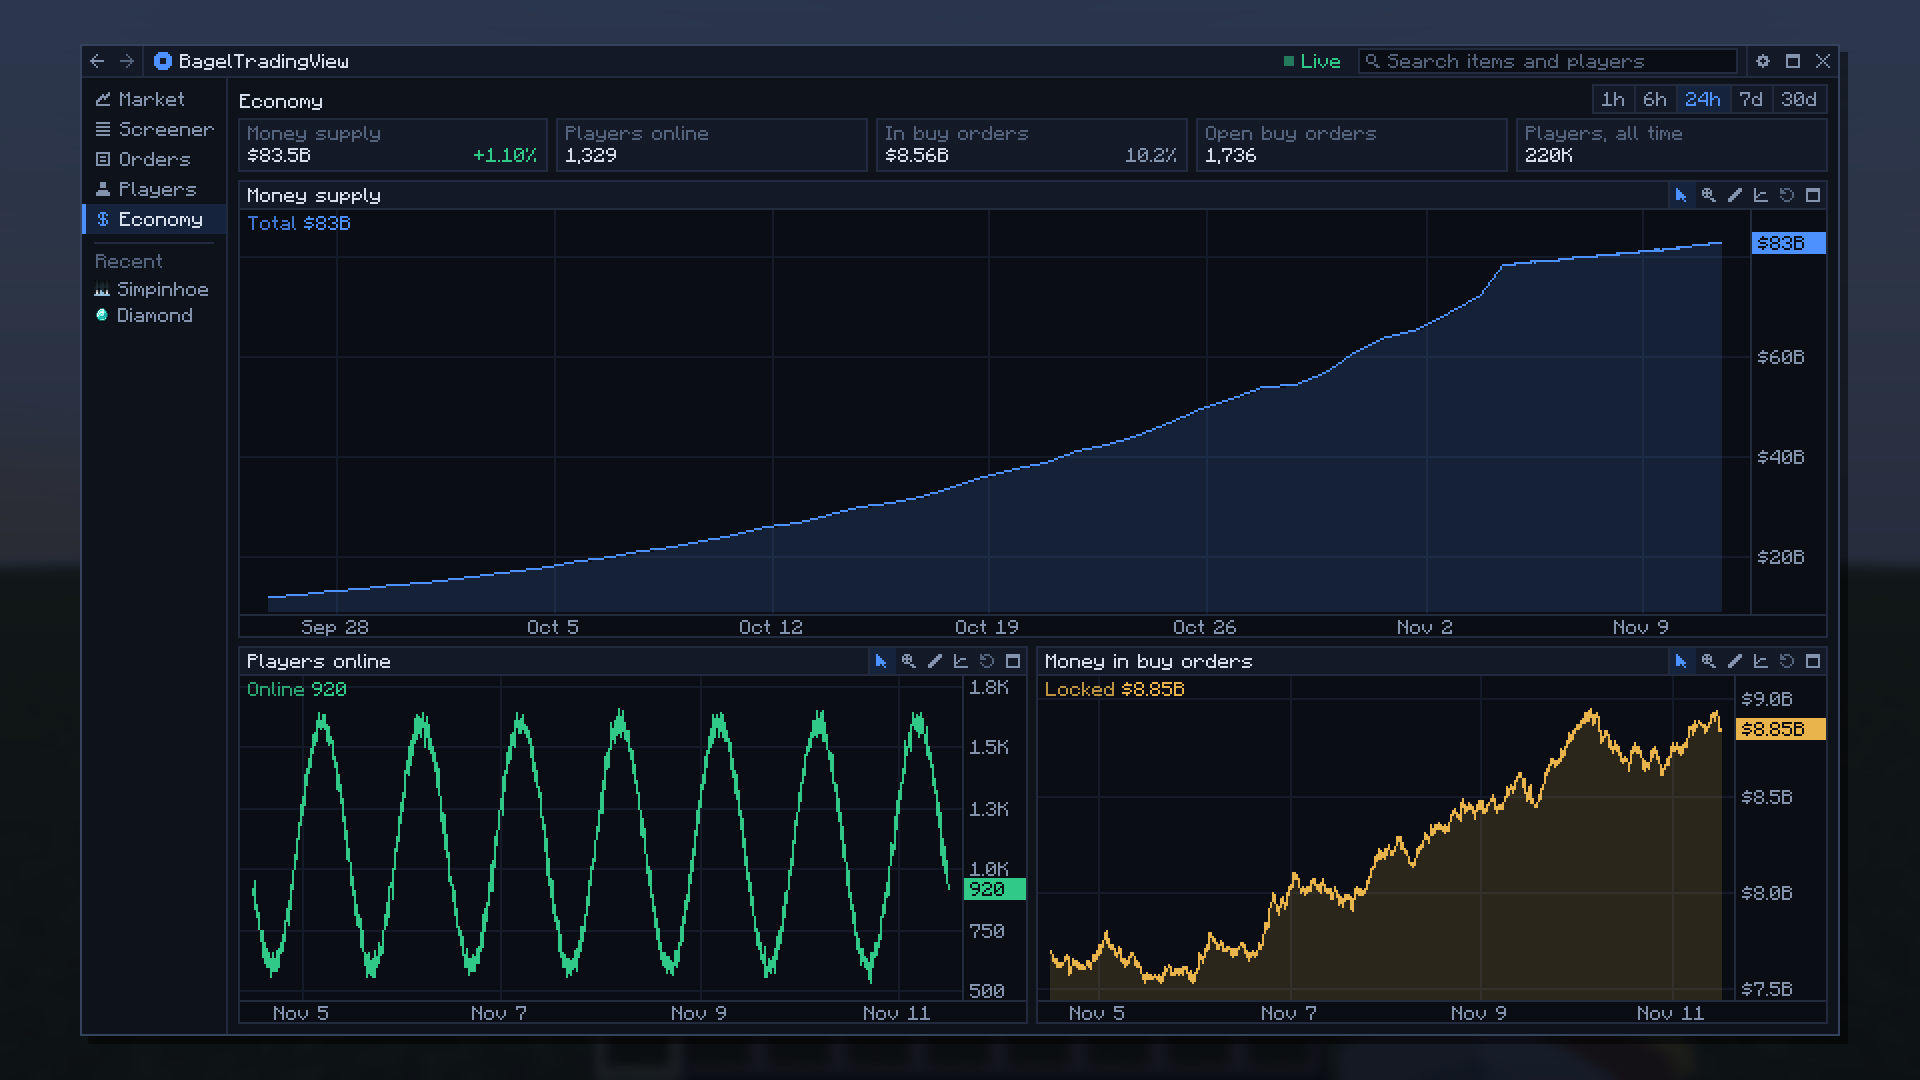
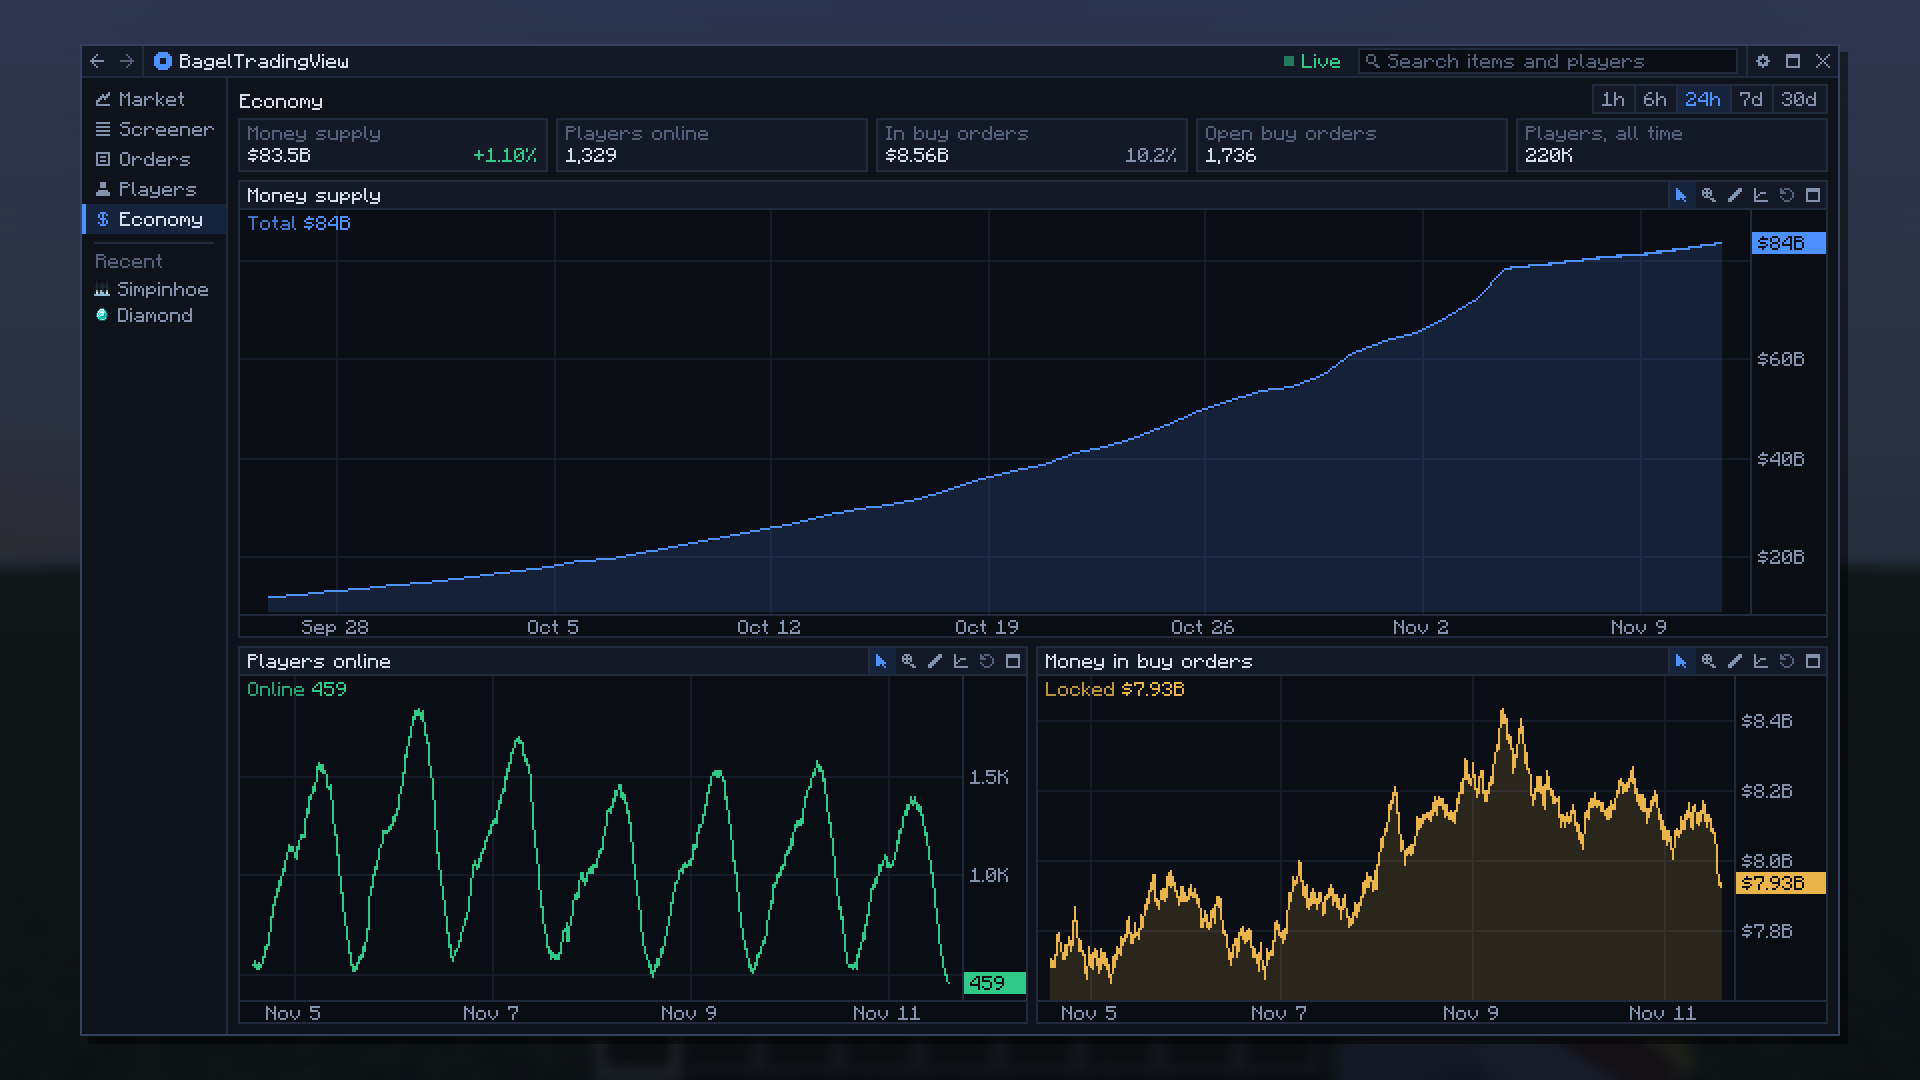
BagelTradingView 0.5.1+26.2

diff --git a/src/gametest/java/com/merkie/bageltv/FakeApi.java b/src/gametest/java/com/merkie/bageltv/FakeApi.java
@@ -772,6 +772,8 @@ public final class FakeApi implements ClientModInitializer {
         Random random = new Random(5);
         double money = number(current, "totalMoney", 8e12) * 0.94, escrow = number(current, "orderEscrow", 8e11) * 0.9;
         int points = 7 * 288;
+        Random crowd = new Random(11);
+        double level = 1, wander = 0;
         for (int i = 0; i < points; i++) {
             long t = now - (long) (points - 1 - i) * 300;
             money *= 1 + 0.06 / points + random.nextGaussian() * 0.00012;
@@ -779,8 +781,14 @@ public final class FakeApi implements ClientModInitializer {
             JsonObject point = new JsonObject();
             point.addProperty("t", t);
             point.addProperty("totalMoney", Math.round(money));
-            point.addProperty("online", Math.round(1100 + 500 * Math.sin((t % 86400) / 86400.0 * 2 * Math.PI - 1.2)
-                    + random.nextGaussian() * 25));
+            // A day on a real server: a slow climb to an evening peak and a quick fall overnight, busier at the
+            // weekend, no two days the same height, and a count that wanders rather than jitters.
+            double day = (t % 86400) / 86400.0 * 2 * Math.PI;
+            double shape = Math.sin(day - 1.2) + 0.35 * Math.sin(2 * day + 0.6);
+            boolean weekend = (t / 86400 + 4) % 7 >= 5;
+            level += (1 - level) * 0.004 + crowd.nextGaussian() * 0.004;
+            wander = wander * 0.9 + crowd.nextGaussian() * 9;
+            point.addProperty("online", Math.round((weekend ? 1.14 : 1) * level * (1050 + 430 * shape) + wander));
             point.addProperty("players", 219000 + i / 3);
             point.addProperty("openOrders", 1600 + (int) (80 * Math.sin(i / 90.0)) + random.nextInt(12));
             point.addProperty("orderEscrow", Math.round(escrow));
